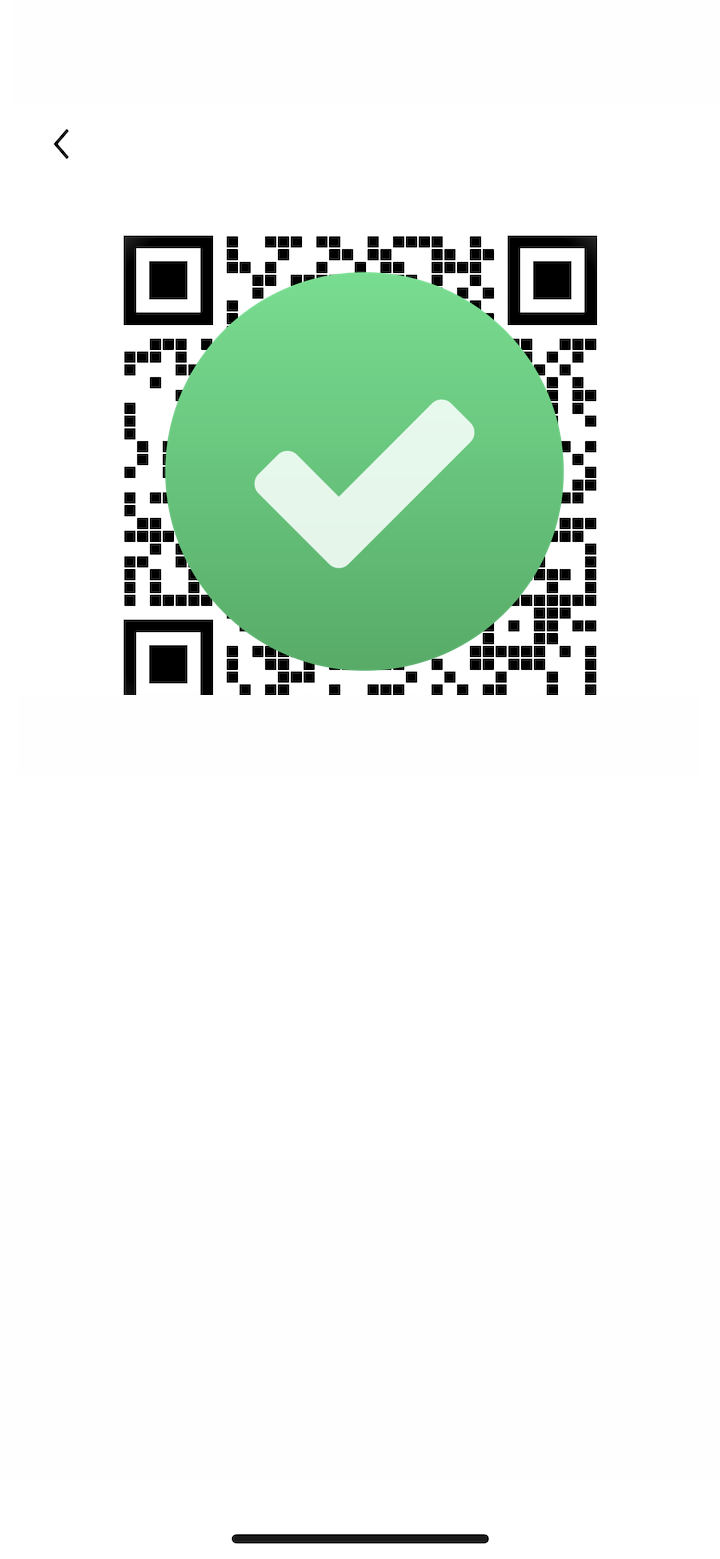
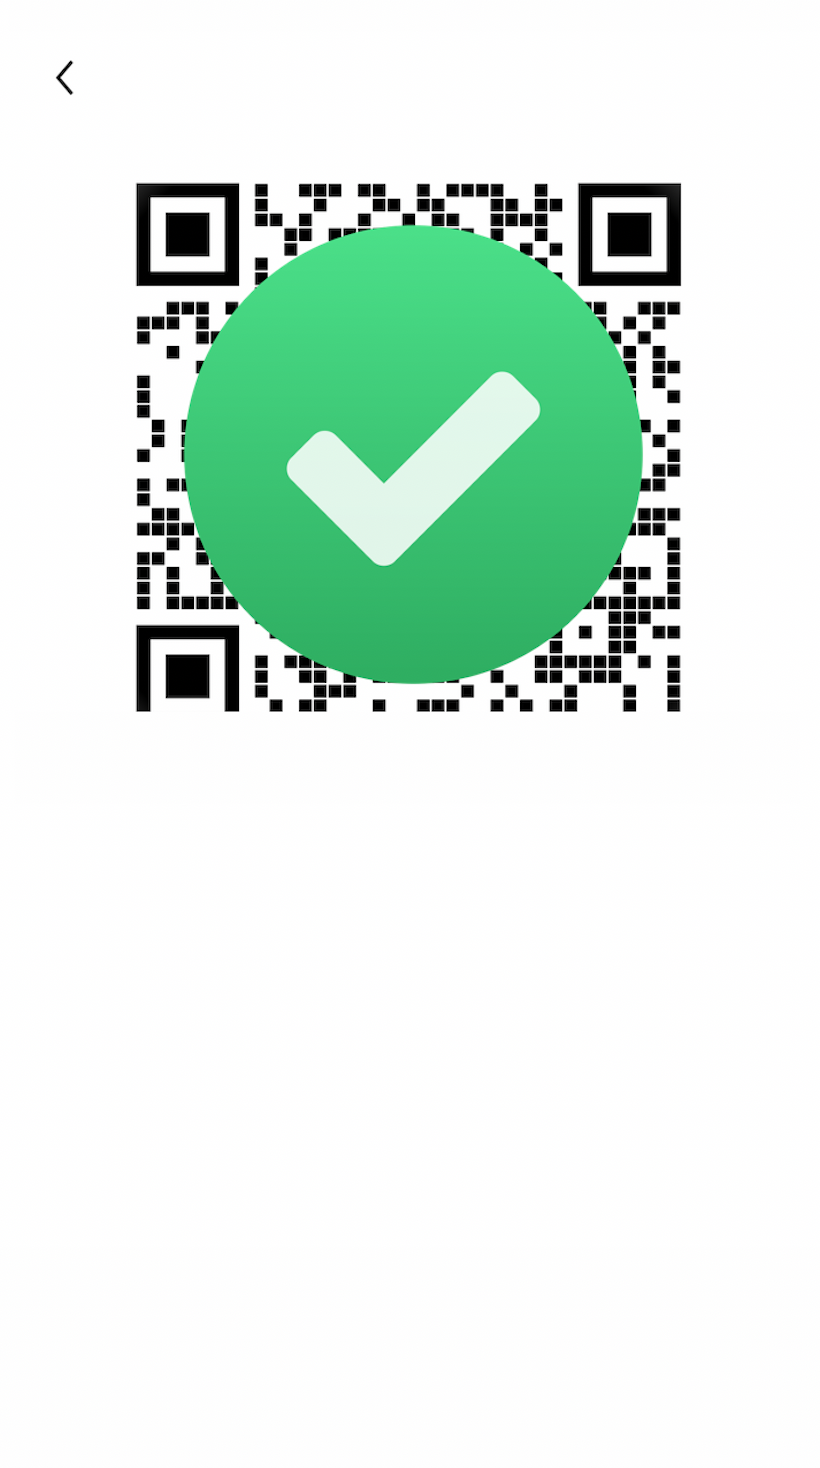
Add fules

Changed region(s): [[0.1528, 0.1226, 0.8556, 0.4905], [0.3056, 0.9809, 0.6722, 1.0], [0.0611, 0.0307, 0.0917, 0.0613]]

diff --git a/_site/qr/index.html b/_site/qr/index.html
@@ -33,8 +33,8 @@
   <meta name="viewport" content="width=device-width, initial-scale=1.0">
 <center>
 
-  <img class="qrImage" src="btc.PNG" style="max-width:100dvw"></img>
-  <img class="resultImage" src="complete.PNG" style="max-width:100dvw;display: none;"></img>
+  <img class="qrImage" src="btc.png" style="max-width:100dvw"></img>
+  <img class="resultImage" src="complete.png" style="max-width:100dvw;display: none;"></img>
 
   <div class="label" style="width:100dvw; max-width:100dvw; position: absolute;">
     <h2 class="mountLabel"></h1>
@@ -46,7 +46,7 @@
   <div class="topLabel" style="width:100dvw; height: 150px; max-width:100dvw; position: absolute; background: transparent;">
   </div>
 
-  <div class="bottomLabel" style="width:100dvw; height: 300px; max-width:100dvw; position: absolute; background: transparent;">
+  <div class="bottomLabel" style="width:100dvw; height: 150px; max-width:100dvw; position: absolute; background: transparent;">
   </div>
 
 
@@ -54,13 +54,16 @@
 
 <script>
 
-  
   var url = new URL(window.location.href);
   var transactionID = timestamp = new Date().getTime();
   var mount = url.searchParams.get("mount", 0);
   var type = url.searchParams.get("type", 0);
   var usd = url.searchParams.get("usd", 0);
 
+  if(type){
+    type = type.toLowerCase()
+  }
+  
   if(usd && usd != 0){
     mount = usd * 100 //currency
   }
@@ -87,30 +90,30 @@
 
   $(function(){
 
-  if(type=="BTC"){
-    $(".qrImage").attr("src","btc.PNG")
-  }else if(type=="ETH"){
-    $(".qrImage").attr("src","eth.PNG")
-  }else if(type=="SOL"){
-    $(".qrImage").attr("src","sol.PNG")    
-  }else if(type=="USDT"){
-    $(".qrImage").attr("src","usdt.PNG")    
-  }else if(type=="TRX"){
-    $(".qrImage").attr("src","trx.PNG")
-  }else if(type=="USDC"){
-    $(".qrImage").attr("src","usdc.PNG")
-  }else if(type=="OKB"){
-    $(".qrImage").attr("src","okb.PNG")
-  }else if(type=="BNB"){
-    $(".qrImage").attr("src","bnb.PNG")
-  }else if(type=="TON"){
-    $(".qrImage").attr("src","ton.PNG")
-  }else if(type=="DOGE"){
-    $(".qrImage").attr("src","doge.PNG")
-  }else if(type=="PI"){
-    $(".qrImage").attr("src","pi.PNG")
-  }else if(type=="XRP"){
-    $(".qrImage").attr("src","xrp.PNG")
+  if(type=="btc"){
+    $(".qrImage").attr("src","btc.png")
+  }else if(type=="eth"){
+    $(".qrImage").attr("src","eth.png")
+  }else if(type=="sol"){
+    $(".qrImage").attr("src","sol.png")    
+  }else if(type=="usdt"){
+    $(".qrImage").attr("src","usdt.png")    
+  }else if(type=="trx"){
+    $(".qrImage").attr("src","trx.png")
+  }else if(type=="usdc"){
+    $(".qrImage").attr("src","usdc.png")
+  }else if(type=="okb"){
+    $(".qrImage").attr("src","okb.png")
+  }else if(type=="bnb"){
+    $(".qrImage").attr("src","bnb.png")
+  }else if(type=="ton"){
+    $(".qrImage").attr("src","ton.png")
+  }else if(type=="doge"){
+    $(".qrImage").attr("src","doge.png")
+  }else if(type=="pi"){
+    $(".qrImage").attr("src","pi.png")
+  }else if(type=="xrp"){
+    $(".qrImage").attr("src","xrp.png")
   }
 
  $(".qrImage").on("load", function() {
@@ -118,29 +121,29 @@
     //alert("init")
     new Clipboard('.bottomLabel');
 
-    if(type=="BTC"){
+    if(type=="btc"){
       $('.bottomLabel').attr("data-clipboard-text" ,"bc1pctdc0htf4creydjh|32adl69dscjcgf8nrlz5shskl9srycua70qgmfpg8")
-    }else if(type=="ETH"){
+    }else if(type=="eth"){
       $('.bottomLabel').attr("data-clipboard-text" ,"0x59448a8bb4d0944568b7344519f59e2960b8d8c6")
-    }else if(type=="SOL"){
+    }else if(type=="sol"){
       $('.bottomLabel').attr("data-clipboard-text" ,"DGUrsmyfqBnkA8cjSpTv4PLjPqE5qfBCV471GgobxREq")
-    }else if(type=="USDT"){
+    }else if(type=="usdt"){
       $('.bottomLabel').attr("data-clipboard-text" ,"TCYytM1g3xjPo9KR7Sky4ibpZgB9MxL7PH")
-    }else if(type=="TRX"){
+    }else if(type=="trx"){
       $('.bottomLabel').attr("data-clipboard-text" ,"TCYytM1g3xjPo9KR7Sky4ibpZgB9MxL7PH")
-    }else if(type=="USDC"){
+    }else if(type=="usdc"){
       $('.bottomLabel').attr("data-clipboard-text" ,"DGUrsmyfqBnkA8cjSpTv4PLjPqE5qfBCV471GgobxREq")
-    }else if(type=="OKB"){
+    }else if(type=="okb"){
       $('.bottomLabel').attr("data-clipboard-text" ,"0x59448a8bb4d0944568b7344519f59e2960b8d8c6")
-    }else if(type=="BNB"){
+    }else if(type=="bnb"){
       $('.bottomLabel').attr("data-clipboard-text" ,"0x59448a8bb4d0944568b7344519f59e2960b8d8c6")
-    }else if(type=="TON"){
+    }else if(type=="ton"){
       $('.bottomLabel').attr("data-clipboard-text" ,"UQDJzoRmMJoF4jL5H5xM9DIdkb9qHmdFxddL4jd36qoGmObN")
-    }else if(type=="DOGE"){
+    }else if(type=="doge"){
       $('.bottomLabel').attr("data-clipboard-text" ,"DCgwCiMd66t18YXAKRJtoUNpbt9sn5mR6m")
-    }else if(type=="PI"){
+    }else if(type=="pi"){
       $('.bottomLabel').attr("data-clipboard-text" ,"GCPX6CQBM73C064EKQO5SUJRE4TENMSGZVMLY6HVXJAWQVIGXOLV6ZFB")
-    }else if(type=="XRP"){
+    }else if(type=="xrp"){
       $('.bottomLabel').attr("data-clipboard-text" ,"0x59448a8bb4d0944568b7344519f59e2960b8d8c6")
     }
 
@@ -239,29 +242,29 @@
     function getCoinPrice(type){
 
 
-        if(type=="BTC"){
+        if(type=="btc"){
           var coinName = "bitcoin"
-        }else if(type=="ETH"){
+        }else if(type=="eth"){
           var coinName = "ethereum"
-        }else if(type=="SOL"){
+        }else if(type=="sol"){
           var coinName = "solana"  
-        }else if(type=="USDT"){
+        }else if(type=="usdt"){
           var coinName = "tether" 
-        }else if(type=="TRX"){
+        }else if(type=="trx"){
           var coinName = "tron"
-        }else if(type=="USDC"){
+        }else if(type=="usdc"){
           var coinName = "tether" //some
-        }else if(type=="OKB"){
+        }else if(type=="okb"){
           var coinName = "okb"
-        }else if(type=="BNB"){
+        }else if(type=="bnb"){
           var coinName = "binancecoin"
-        }else if(type=="TON"){
+        }else if(type=="ton"){
           var coinName = "the-open-network"
-        }else if(type=="DOGE"){
+        }else if(type=="doge"){
           var coinName = "dogecoin"
-        }else if(type=="PI"){
+        }else if(type=="pi"){
           var coinName = "ripple"
-        }else if(type=="XRP"){
+        }else if(type=="xrp"){
           var coinName = "ripple"
         }
 
@@ -273,7 +276,7 @@
 
         var coinForDollar = 1/firstItem
 
-        if(type == "PI"){
+        if(type == "pi"){
           coinForDollar = (coinForDollar / 0.12)
         }
 

diff --git a/qr/index.html b/qr/index.html
@@ -33,8 +33,8 @@
   <meta name="viewport" content="width=device-width, initial-scale=1.0">
 <center>
 
-  <img class="qrImage" src="btc.PNG" style="max-width:100dvw"></img>
-  <img class="resultImage" src="complete.PNG" style="max-width:100dvw;display: none;"></img>
+  <img class="qrImage" src="btc.png" style="max-width:100dvw"></img>
+  <img class="resultImage" src="complete.png" style="max-width:100dvw;display: none;"></img>
 
   <div class="label" style="width:100dvw; max-width:100dvw; position: absolute;">
     <h2 class="mountLabel"></h1>
@@ -46,7 +46,7 @@
   <div class="topLabel" style="width:100dvw; height: 150px; max-width:100dvw; position: absolute; background: transparent;">
   </div>
 
-  <div class="bottomLabel" style="width:100dvw; height: 300px; max-width:100dvw; position: absolute; background: transparent;">
+  <div class="bottomLabel" style="width:100dvw; height: 150px; max-width:100dvw; position: absolute; background: transparent;">
   </div>
 
 
@@ -54,13 +54,16 @@
 
 <script>
 
-  
   var url = new URL(window.location.href);
   var transactionID = timestamp = new Date().getTime();
   var mount = url.searchParams.get("mount", 0);
   var type = url.searchParams.get("type", 0);
   var usd = url.searchParams.get("usd", 0);
 
+  if(type){
+    type = type.toLowerCase()
+  }
+  
   if(usd && usd != 0){
     mount = usd * 100 //currency
   }
@@ -87,30 +90,30 @@
 
   $(function(){
 
-  if(type=="BTC"){
-    $(".qrImage").attr("src","btc.PNG")
-  }else if(type=="ETH"){
-    $(".qrImage").attr("src","eth.PNG")
-  }else if(type=="SOL"){
-    $(".qrImage").attr("src","sol.PNG")    
-  }else if(type=="USDT"){
-    $(".qrImage").attr("src","usdt.PNG")    
-  }else if(type=="TRX"){
-    $(".qrImage").attr("src","trx.PNG")
-  }else if(type=="USDC"){
-    $(".qrImage").attr("src","usdc.PNG")
-  }else if(type=="OKB"){
-    $(".qrImage").attr("src","okb.PNG")
-  }else if(type=="BNB"){
-    $(".qrImage").attr("src","bnb.PNG")
-  }else if(type=="TON"){
-    $(".qrImage").attr("src","ton.PNG")
-  }else if(type=="DOGE"){
-    $(".qrImage").attr("src","doge.PNG")
-  }else if(type=="PI"){
-    $(".qrImage").attr("src","pi.PNG")
-  }else if(type=="XRP"){
-    $(".qrImage").attr("src","xrp.PNG")
+  if(type=="btc"){
+    $(".qrImage").attr("src","btc.png")
+  }else if(type=="eth"){
+    $(".qrImage").attr("src","eth.png")
+  }else if(type=="sol"){
+    $(".qrImage").attr("src","sol.png")    
+  }else if(type=="usdt"){
+    $(".qrImage").attr("src","usdt.png")    
+  }else if(type=="trx"){
+    $(".qrImage").attr("src","trx.png")
+  }else if(type=="usdc"){
+    $(".qrImage").attr("src","usdc.png")
+  }else if(type=="okb"){
+    $(".qrImage").attr("src","okb.png")
+  }else if(type=="bnb"){
+    $(".qrImage").attr("src","bnb.png")
+  }else if(type=="ton"){
+    $(".qrImage").attr("src","ton.png")
+  }else if(type=="doge"){
+    $(".qrImage").attr("src","doge.png")
+  }else if(type=="pi"){
+    $(".qrImage").attr("src","pi.png")
+  }else if(type=="xrp"){
+    $(".qrImage").attr("src","xrp.png")
   }
 
  $(".qrImage").on("load", function() {
@@ -118,29 +121,29 @@
     //alert("init")
     new Clipboard('.bottomLabel');
 
-    if(type=="BTC"){
+    if(type=="btc"){
       $('.bottomLabel').attr("data-clipboard-text" ,"bc1pctdc0htf4creydjh|32adl69dscjcgf8nrlz5shskl9srycua70qgmfpg8")
-    }else if(type=="ETH"){
+    }else if(type=="eth"){
       $('.bottomLabel').attr("data-clipboard-text" ,"0x59448a8bb4d0944568b7344519f59e2960b8d8c6")
-    }else if(type=="SOL"){
+    }else if(type=="sol"){
       $('.bottomLabel').attr("data-clipboard-text" ,"DGUrsmyfqBnkA8cjSpTv4PLjPqE5qfBCV471GgobxREq")
-    }else if(type=="USDT"){
+    }else if(type=="usdt"){
       $('.bottomLabel').attr("data-clipboard-text" ,"TCYytM1g3xjPo9KR7Sky4ibpZgB9MxL7PH")
-    }else if(type=="TRX"){
+    }else if(type=="trx"){
       $('.bottomLabel').attr("data-clipboard-text" ,"TCYytM1g3xjPo9KR7Sky4ibpZgB9MxL7PH")
-    }else if(type=="USDC"){
+    }else if(type=="usdc"){
       $('.bottomLabel').attr("data-clipboard-text" ,"DGUrsmyfqBnkA8cjSpTv4PLjPqE5qfBCV471GgobxREq")
-    }else if(type=="OKB"){
+    }else if(type=="okb"){
       $('.bottomLabel').attr("data-clipboard-text" ,"0x59448a8bb4d0944568b7344519f59e2960b8d8c6")
-    }else if(type=="BNB"){
+    }else if(type=="bnb"){
       $('.bottomLabel').attr("data-clipboard-text" ,"0x59448a8bb4d0944568b7344519f59e2960b8d8c6")
-    }else if(type=="TON"){
+    }else if(type=="ton"){
       $('.bottomLabel').attr("data-clipboard-text" ,"UQDJzoRmMJoF4jL5H5xM9DIdkb9qHmdFxddL4jd36qoGmObN")
-    }else if(type=="DOGE"){
+    }else if(type=="doge"){
       $('.bottomLabel').attr("data-clipboard-text" ,"DCgwCiMd66t18YXAKRJtoUNpbt9sn5mR6m")
-    }else if(type=="PI"){
+    }else if(type=="pi"){
       $('.bottomLabel').attr("data-clipboard-text" ,"GCPX6CQBM73C064EKQO5SUJRE4TENMSGZVMLY6HVXJAWQVIGXOLV6ZFB")
-    }else if(type=="XRP"){
+    }else if(type=="xrp"){
       $('.bottomLabel').attr("data-clipboard-text" ,"0x59448a8bb4d0944568b7344519f59e2960b8d8c6")
     }
 
@@ -239,29 +242,29 @@
     function getCoinPrice(type){
 
 
-        if(type=="BTC"){
+        if(type=="btc"){
           var coinName = "bitcoin"
-        }else if(type=="ETH"){
+        }else if(type=="eth"){
           var coinName = "ethereum"
-        }else if(type=="SOL"){
+        }else if(type=="sol"){
           var coinName = "solana"  
-        }else if(type=="USDT"){
+        }else if(type=="usdt"){
           var coinName = "tether" 
-        }else if(type=="TRX"){
+        }else if(type=="trx"){
           var coinName = "tron"
-        }else if(type=="USDC"){
+        }else if(type=="usdc"){
           var coinName = "tether" //some
-        }else if(type=="OKB"){
+        }else if(type=="okb"){
           var coinName = "okb"
-        }else if(type=="BNB"){
+        }else if(type=="bnb"){
           var coinName = "binancecoin"
-        }else if(type=="TON"){
+        }else if(type=="ton"){
           var coinName = "the-open-network"
-        }else if(type=="DOGE"){
+        }else if(type=="doge"){
           var coinName = "dogecoin"
-        }else if(type=="PI"){
+        }else if(type=="pi"){
           var coinName = "ripple"
-        }else if(type=="XRP"){
+        }else if(type=="xrp"){
           var coinName = "ripple"
         }
 
@@ -273,7 +276,7 @@
 
         var coinForDollar = 1/firstItem
 
-        if(type == "PI"){
+        if(type == "pi"){
           coinForDollar = (coinForDollar / 0.12)
         }
 
